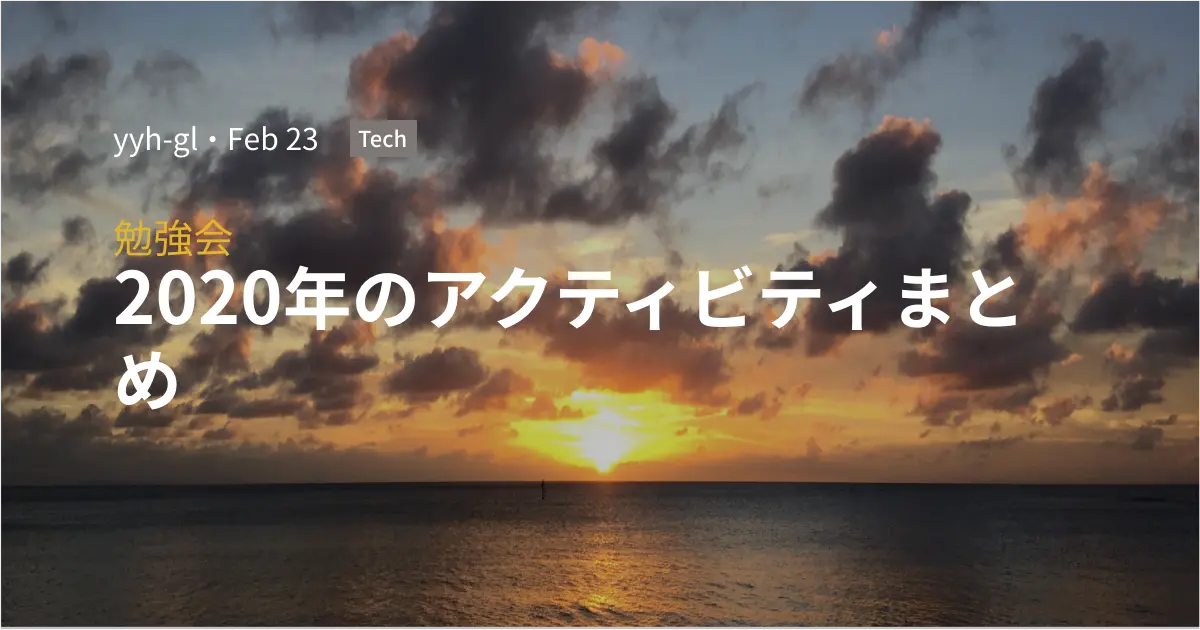
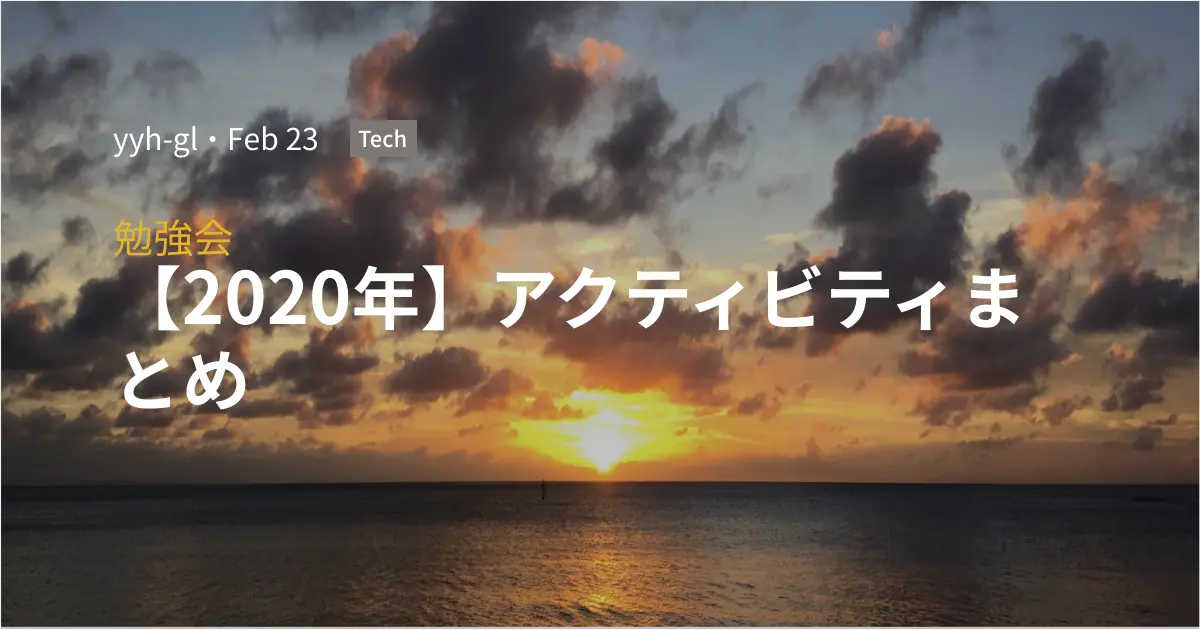
2020年アクティビティ修正

Changed region(s): [[0.0925, 0.4222, 0.8633, 0.6635]]

diff --git a/content/about/_index.md b/content/about/_index.md
@@ -174,7 +174,7 @@ DMM.comに入社しました。
 
 # アクティビティ
 
-- [2020年](https://yyh-gl.github.io/tech-blog/blog/activity_2020)
+- [2020年](https://yyh-gl.github.io/tech-blog/blog/activity-2020)
 
 
 # 余談：学生時代の研究

diff --git a/content/blog/activity-2020.md b/content/blog/activity-2020.md
@@ -1,7 +1,7 @@
 <!-- textlint-disable -->
 
 +++
-title = "2020年のアクティビティまとめ"
+title = "【2020年】アクティビティまとめ"
 author = "yyh-gl"
 categories = ["勉強会", "アクティビティ"]
 tags = ["Tech"]
